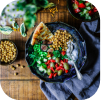
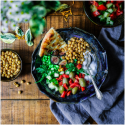
fix card image style

diff --git a/src/screens/home-screen/home-screen.tsx b/src/screens/home-screen/home-screen.tsx
@@ -62,6 +62,8 @@ const ChallengeInfo = styled.View`
 const ChallengePic = styled.Image`
     height: 115px;
     width: 115px;
+    border-top-left-radius: 10px;
+    border-bottom-left-radius: 10px;
 `;
 
 const ChallengeTitle = styled.Text`
@@ -181,12 +183,10 @@ const ChallengeCardTitle = styled.Text`
     font-weight: bold;
     font-size: 16px;
     line-height: 22px;
-`
+`;
 const ChallengeDate = styled.Text`
     margin-right: 10px;
-`
-
-
+`;
 
 export interface HomeScreenProps {
     navigation: any;
@@ -201,7 +201,7 @@ const Home = ({ navigation }: HomeScreenProps) => {
                         <TextContainer>
                             <Bold>Bonjour Élodie</Bold>
                             <WhitePointsTag>
-                                <WhitePoints points={2567}/>
+                                <WhitePoints points={2567} />
                             </WhitePointsTag>
                         </TextContainer>
                         <ProfilePic
@@ -227,7 +227,9 @@ const Home = ({ navigation }: HomeScreenProps) => {
                                     source={require('../../assets/meal.png')}
                                 />
                                 <ChallengeInfo>
-                                    <ChallengeCardTitle>Lundi c’est Veggie !</ChallengeCardTitle>
+                                    <ChallengeCardTitle>
+                                        Lundi c’est Veggie !
+                                    </ChallengeCardTitle>
                                     <TagContainer>
                                         <TypeTag>
                                             <TypeText>Alimentation</TypeText>
